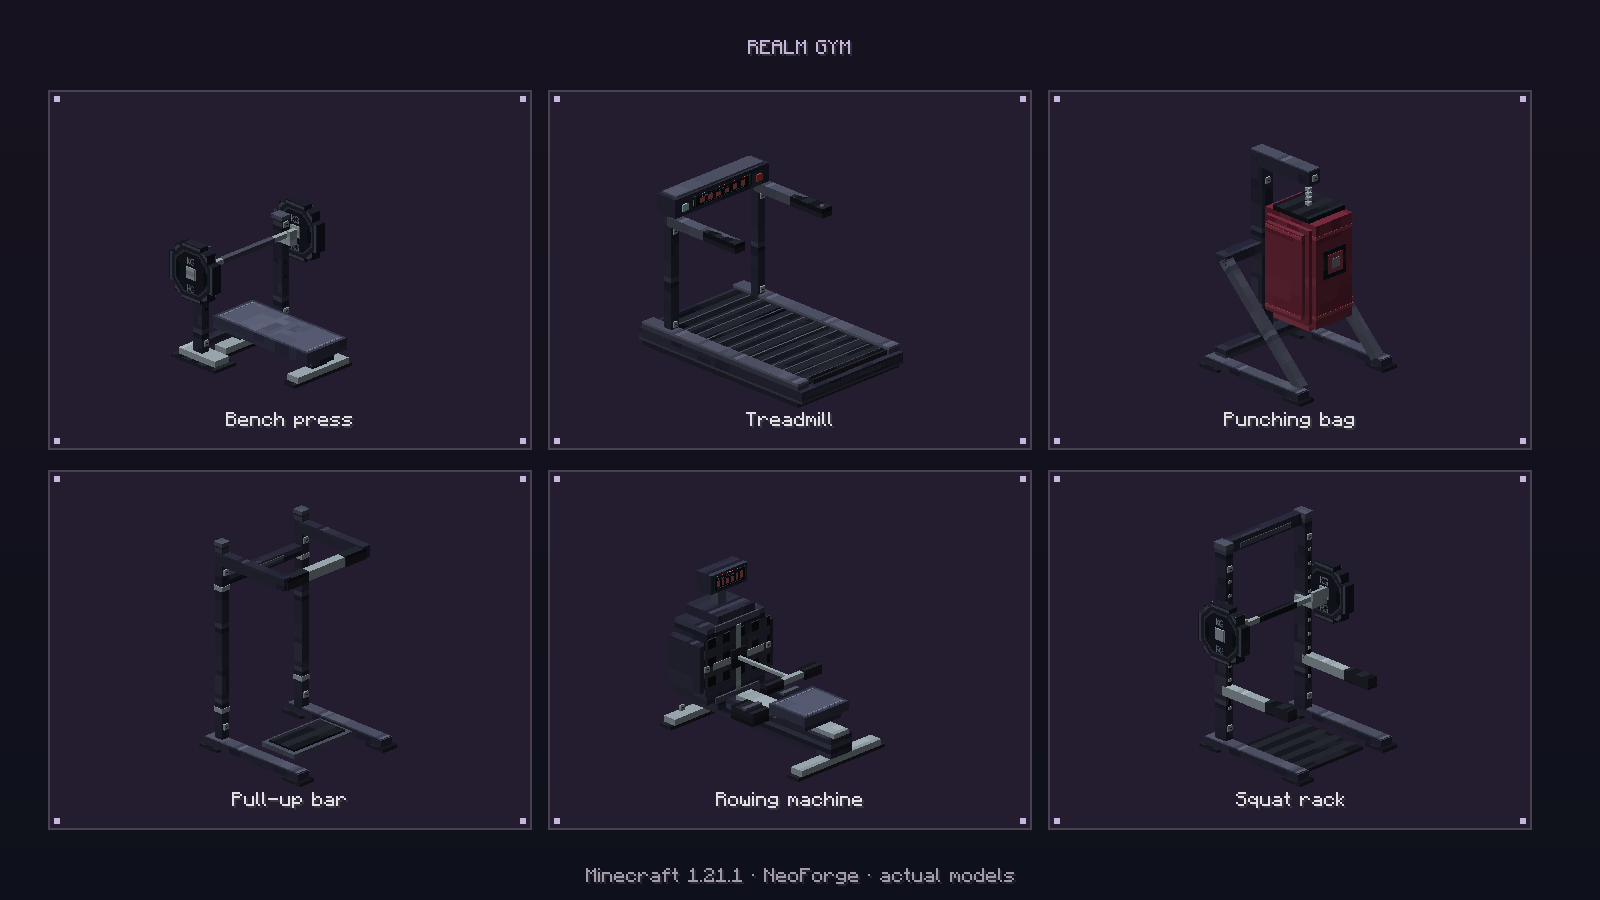
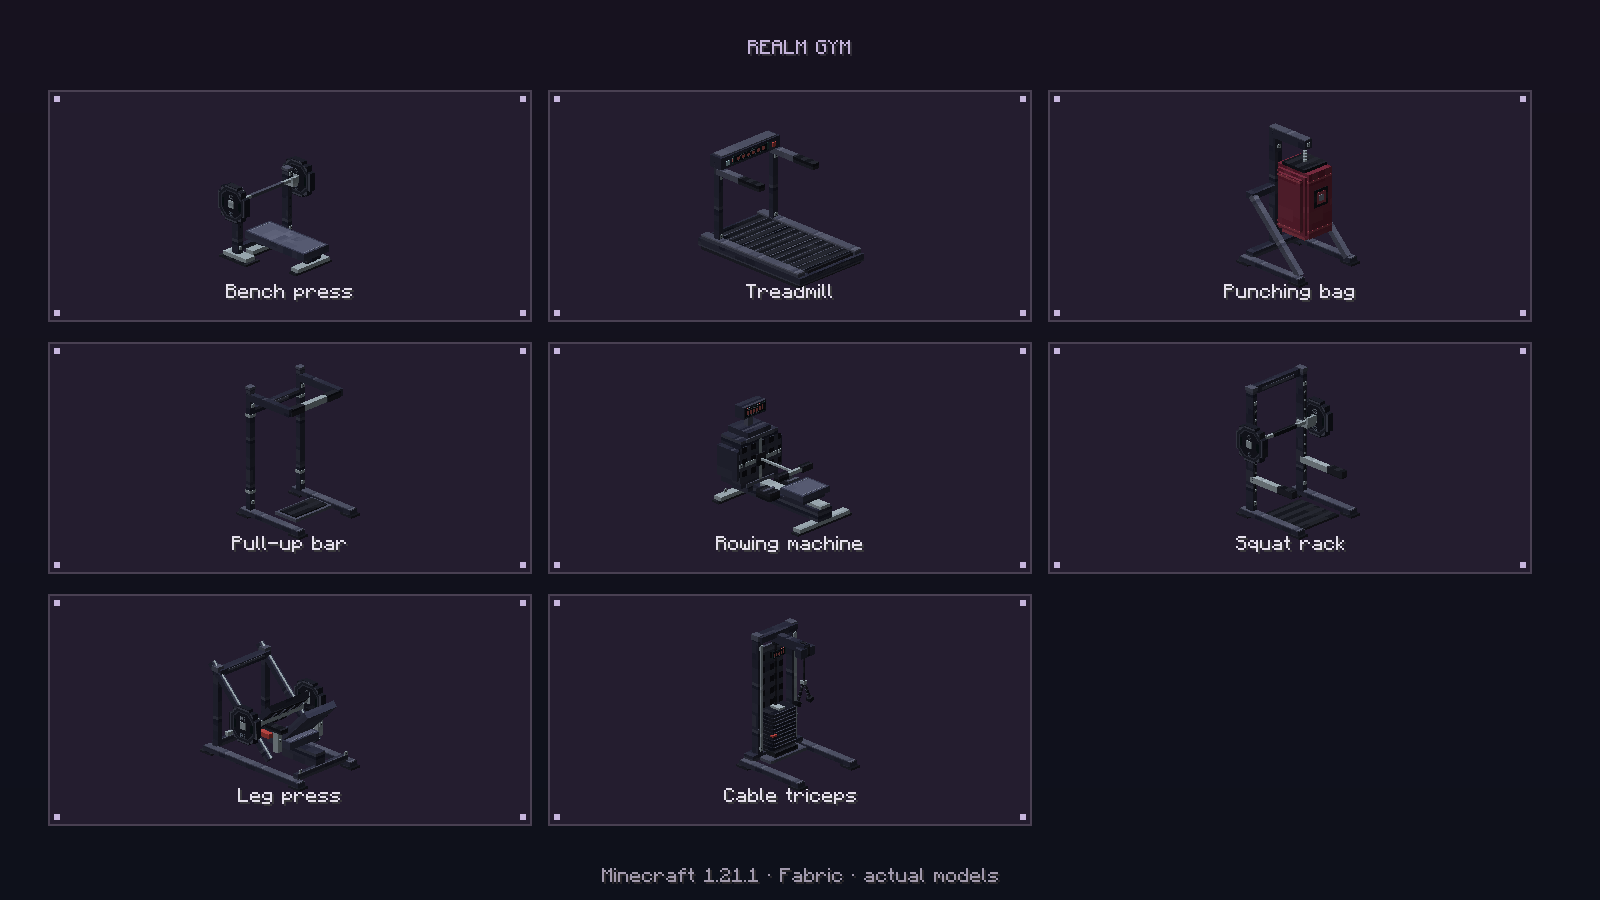
Publish Realm Gym Fabric and Forge editions on the website
Add Fabric 1.21.1 and Forge 1.20.1 to release selection and refresh verified, commit-pinned downloads. Show Fabric API beside its download and explain the six-machine Forge edition. Update the eight-machine guide, installation instructions, screenshots and gameplay video.

Validation: Astro check, production build and 35 tests pass. Add catalog isolation and responsive browser coverage for the three downloads and Fabric-only dependency.

diff --git a/tests/browser/site.spec.ts b/tests/browser/site.spec.ts
@@ -102,3 +102,20 @@ test('Season 8 explains availability and links to access instructions', async ({
   await page.goto('/modpack/');await expect(page.locator('.version-label')).not.toBeEmpty();
   await expect(page.locator('#modpack-access')).toBeVisible();await expect(page.locator('.distribution-label')).not.toBeEmpty();
 });
+
+test('Realm Gym exposes three loader editions and scopes Fabric API to Fabric', async ({ page }) => {
+  for (const width of [320, 1280]) {
+    await page.setViewportSize({ width, height: 900 });
+    await page.goto('/mods/realm-gym/');
+    await expect(page.locator('.download-card')).toHaveCount(3);
+    const fabric = page.locator('.download-card').filter({ hasText: 'Fabric · Minecraft 1.21.1' });
+    await expect(fabric).toContainText('Fabric 0.16.14+');
+    await expect(fabric.getByRole('link', { name: 'Fabric API 0.116.18+1.21.1', exact: true })).toHaveAttribute('href', 'https://www.curseforge.com/minecraft/mc-mods/fabric-api');
+    await expect(fabric.getByRole('link', { name: 'Download Realm Gym for Fabric 1.21.1', exact: true })).toHaveAttribute('href', /realm-gym-0\.6\.0-fabric-1\.21\.1\.jar$/);
+    const forge = page.locator('.download-card').filter({ hasText: 'Forge · Minecraft 1.20.1' });
+    await expect(forge).toContainText('Java 17'); await expect(forge).toContainText('Includes six machines');
+    await expect(page.locator('.download-card').filter({ hasText: 'NeoForge · Minecraft 1.21.1' })).not.toContainText('Fabric API');
+    expect(await page.evaluate(() => document.documentElement.scrollWidth <= innerWidth)).toBe(true);
+  }
+  await page.goto('/wiki/realm-gym/'); await expect(page.locator('main')).toContainText('Cable rope triceps'); await expect(page.locator('main')).toContainText('240 kg');
+});

diff --git a/src/data/media.ts b/src/data/media.ts
@@ -17,7 +17,7 @@ export const gallery = {
   marketsStalls: { image: marketsStalls, caption: 'Build a market with crimson and green stalls.' },
   casinoTables: { image: casinoTables, caption: 'Medieval game tables and machines placed in a demonstration world.' },
   marriageAltar: { image: marriageAltar, caption: 'Prepare a physical altar for your ceremony.' },
-  gymEquipment: { image: gymEquipment, caption: 'Six gym machines, rendered in Minecraft.' },
+  gymEquipment: { image: gymEquipment, caption: 'Eight gym machines in Realm Gym 0.6.0 for Minecraft 1.21.1, including leg press and cable triceps.' },
   treasuryContract: { image: treasuryContract, caption: 'Read the terms and instalments on a signed loan contract.' },
   marriageAgreement: { image: marriageAgreement, caption: 'Agree on the ceremony and marriage terms together.' },
   casinoPoker: { image: casinoPoker, caption: 'Read the poker rules before joining a table.' },
@@ -25,5 +25,5 @@ export const gallery = {
   gymProfile: { image: gymProfile, caption: 'Track your attributes and permanent training progress.' },
 };
 export const videos = {
-  gymBench: { url: 'https://raw.githubusercontent.com/ROCKABITS/Mods/e00a265fcf858297b093820683d622eaf11fe311/media/realm-fitness/0.5.0/fitness-motion-bench.mp4', label: 'Bench press gameplay and equipment animation — recorded in 0.5.0, before the Realm Gym rename' },
+  gymBench: { url: 'https://raw.githubusercontent.com/ROCKABITS/Mods/c3d0a6a3b5db8863b90ca737fcfccb1bc2e3fa84/media/realm-gym/0.6.0-fabric-1.21.1/fitness-motion-bench.mp4', label: 'Bench press gameplay and articulated equipment animation — Realm Gym 0.6.0, Fabric 1.21.1' },
 };

diff --git a/src/data/schema.ts b/src/data/schema.ts
@@ -3,7 +3,8 @@ const text = z.string().trim().min(1);
 const url = z.url();
 export const editionSchema = z.object({
   id: text, version: z.string().regex(/^\d+\.\d+\.\d+$/), minecraft: text,
-  loader: z.enum(['NeoForge', 'Forge']), loaderVersion: text, java: z.number().int().positive(),
+  loader: z.enum(['NeoForge', 'Forge', 'Fabric']), loaderVersion: text, java: z.number().int().positive(),
+  dependencies: z.array(z.object({ name: text, version: text, url })).default([]), note: text.optional(),
   status: z.enum(['Beta', 'Release']).nullable(), jar: z.string().endsWith('.jar'), downloadUrl: url, sourceUrl: url, sha256: z.string().optional(),
 });
 export const releaseSchema = z.object({ repository: text, releaseCommit: z.string().regex(/^[a-f0-9]{40}$/), mods: z.array(z.object({ slug: text, editions: z.array(editionSchema).min(1) })) });

diff --git a/src/content/wiki/realm-gym.md b/src/content/wiki/realm-gym.md
@@ -1,6 +1,6 @@
 ---
 title: Train at your gym
-description: Use Realm Gym machines, choose your load and build a personal workout routine.
+description: Choose your Realm Gym edition, train on animated machines and build a personal workout routine.
 category: Activities & rewards
 mod: realm-gym
 order: 95
@@ -8,19 +8,29 @@ order: 95
 
 ## Install Realm Gym
 
-Use **Minecraft 1.21.1, NeoForge 21.1.256+ and Java 21**. Install the same Realm Gym version on the server and every client. It works independently of Realm Origins and other stats mods.
+Choose an edition from the [Realm Gym downloads](/mods/realm-gym/#downloads). Install the same edition on the server and every client.
 
-Realm Gym was previously called **Realm Fitness**. Replace the old JAR rather than installing both. Existing machines, workout plans and player progress remain compatible.
+| Edition | Version | Requirements | Equipment |
+| --- | --- | --- | --- |
+| NeoForge · Minecraft 1.21.1 | 0.6.0 | NeoForge 21.1.256+, Java 21 | Eight machines |
+| Fabric · Minecraft 1.21.1 | 0.6.0 | Fabric Loader 0.16.14+, Java 21 and Fabric API 0.116.18+1.21.1 | Eight machines |
+| Forge · Minecraft 1.20.1 | 0.5.1 | Forge 47.4.0+, Java 17 | Six machines |
+
+For Fabric, add [Fabric API](https://www.curseforge.com/minecraft/mc-mods/fabric-api) for Minecraft 1.21.1 to both the server and clients. Realm Gym works independently of Realm Origins and other stats mods.
+
+Realm Gym was previously called **Realm Fitness**. Replace the old JAR when updating. The mod retains its existing machine IDs and saved progression format.
 
 ## Start a set
 
-1. Craft a machine and place it on a solid floor with enough space. Benches, treadmills and rowing machines use a 2 × 3 footprint; the other machines use 2 × 2. Reserve three blocks of height.
+1. Craft a machine and place it on a solid floor with enough space. Benches, treadmills, rowing machines and leg press use a 2 × 3 footprint; the other machines use 2 × 2. Reserve three blocks of height.
 2. Right-click the machine to mount it and begin. Without an active plan, you train a free set of eight repetitions.
 3. Follow the compact minigame HUD. Press **Shift** to leave or **F5** to change perspective.
 
 Sneak-right-click **before entering** to increase the weight or resistance. Loads respect your unlocked levels and cycle back to the minimum after the maximum.
 
-## Six exercises
+## Exercises
+
+All eight exercises are available in the Minecraft 1.21.1 editions. Forge 1.20.1 includes the first six.
 
 | Equipment | Controls | Attribute |
 | --- | --- | --- |
@@ -30,15 +40,19 @@ Sneak-right-click **before entering** to increase the weight or resistance. Load
 | Pull-up bar | Hold Space to rise, release to lower; A/D for balance | Body control |
 | Rowing machine | Charge with W, release in the target zone, recover with S | Aquatic endurance |
 | Squat rack | W to lower, release to pause, S to rise | Leg power |
+| Leg press | Balance each leg's pressure with A/D inside green, then release both keys to return | Leg power, shared with squats |
+| Cable rope triceps | Hold Space to pull, click M1/M2 inside green, hold the short contraction and release to return | Strength, shared with bench press |
+
+Leg press loads start at **40 kg**, increase in 10 kg steps and unlock up to **240 kg**. Cable triceps starts at **5 kg**, increases in 5 kg steps and unlocks up to **55 kg**. The two new machines have their own records and load selections, while sharing progression and muscle fatigue with the corresponding existing attribute.
 
 ## Plan your training
 
 Press **K** to open the athlete profile. Choose or create a routine with exercises, sets, repetitions, loads and rest periods. Your active workout is saved between sessions.
 
-Training develops 20 permanent levels per attribute. Lighter loads become easier as you progress. Daily XP limits, fatigue and recovery encourage regular training. Record boards show results by exercise, load, repetitions, period and gym area.
+Training develops 20 permanent levels in each of six attributes. Lighter loads become easier as you progress. Daily XP limits, fatigue and recovery encourage regular training. Record boards show results by exercise, load, repetitions, period and gym area.
 
 ## Commands
 
 `/gym` opens your profile. Operators can use `/gym equipment` to obtain the equipment and `/gym reload` to reload settings. Existing `/fitness` commands remain aliases.
 
-Find the full values and configuration details in the [Realm Gym source guide](https://github.com/ROCKABITS/Mods/tree/main/realm-gym).
+Find the full configuration and validation details in the source guides for [NeoForge 1.21.1](https://github.com/ROCKABITS/Mods/tree/main/realm-gym), [Fabric 1.21.1](https://github.com/ROCKABITS/Mods/tree/main/realm-gym-fabric-1.21.1) and [Forge 1.20.1](https://github.com/ROCKABITS/Mods/tree/main/realm-gym-forge-1.20.1).

diff --git a/src/content/wiki/installation.md b/src/content/wiki/installation.md
@@ -7,13 +7,13 @@ order: 1
 
 ## Before you begin
 
-Most Realm gameplay mods target **Minecraft Java 1.21.1**, **NeoForge 21.1.256+**, and **Java 21**. Contracts & Bounties also has a separate **Forge 1.20.1 / Java 17** edition. Choose the exact Minecraft and loader edition shown on each download; these editions are not interchangeable.
+Most Realm gameplay mods target **Minecraft Java 1.21.1**, **NeoForge 21.1.256+**, and **Java 21**. Contracts & Bounties and Realm Gym also have **Forge 1.20.1 / Java 17** editions. Realm Gym additionally supports **Fabric 1.21.1 / Java 21**, with Fabric Loader 0.16.14+ and Fabric API 0.116.18+1.21.1. Choose the exact Minecraft and loader edition shown on each download; these editions are not interchangeable.
 
 Install the same version of each gameplay mod on the server and on every participating client. For a LAN world, the hosting player's instance also acts as the server.
 
 ## Install your collection
 
-1. Create a Minecraft 1.21.1 instance with the matching NeoForge loader and Java 21.
+1. Create a Minecraft instance with the Minecraft version, loader and Java version listed for your chosen edition.
 2. Choose the mods you want from the [collection](/mods/). Read each mod's dependencies before downloading.
 3. Close Minecraft and the server. Place the JAR files in each instance's `mods` folder.
 4. Add any required dependencies to the same instances. If you downloaded a ZIP alternative, extract the JAR first.

diff --git a/README.md b/README.md
@@ -56,7 +56,7 @@ npm run build
 npm test
 ```
 
-`scripts/sync-releases.mjs` reads the public **ROCKABITS/Mods** release tree, selects the newest semantic version for each configured edition, reads its build metadata and writes `src/data/releases.json`. Downloads are pinned to a repository commit. Existing editorial descriptions are preserved. Forge and NeoForge releases are selected independently.
+`scripts/sync-releases.mjs` reads the public **ROCKABITS/Mods** release tree, selects the newest semantic version for each configured edition, reads its build metadata and writes `src/data/releases.json`. Downloads are pinned to a repository commit. Existing editorial descriptions are preserved. Forge, NeoForge and Fabric releases are selected independently. Edition-specific dependencies such as Fabric API are displayed with the corresponding download.
 
 `src/data/catalog-sources.json` maps each catalogue slug to its source folder and edition filenames. Add a source mapping, editorial entry, artwork and player guide when adding a new project.
 
